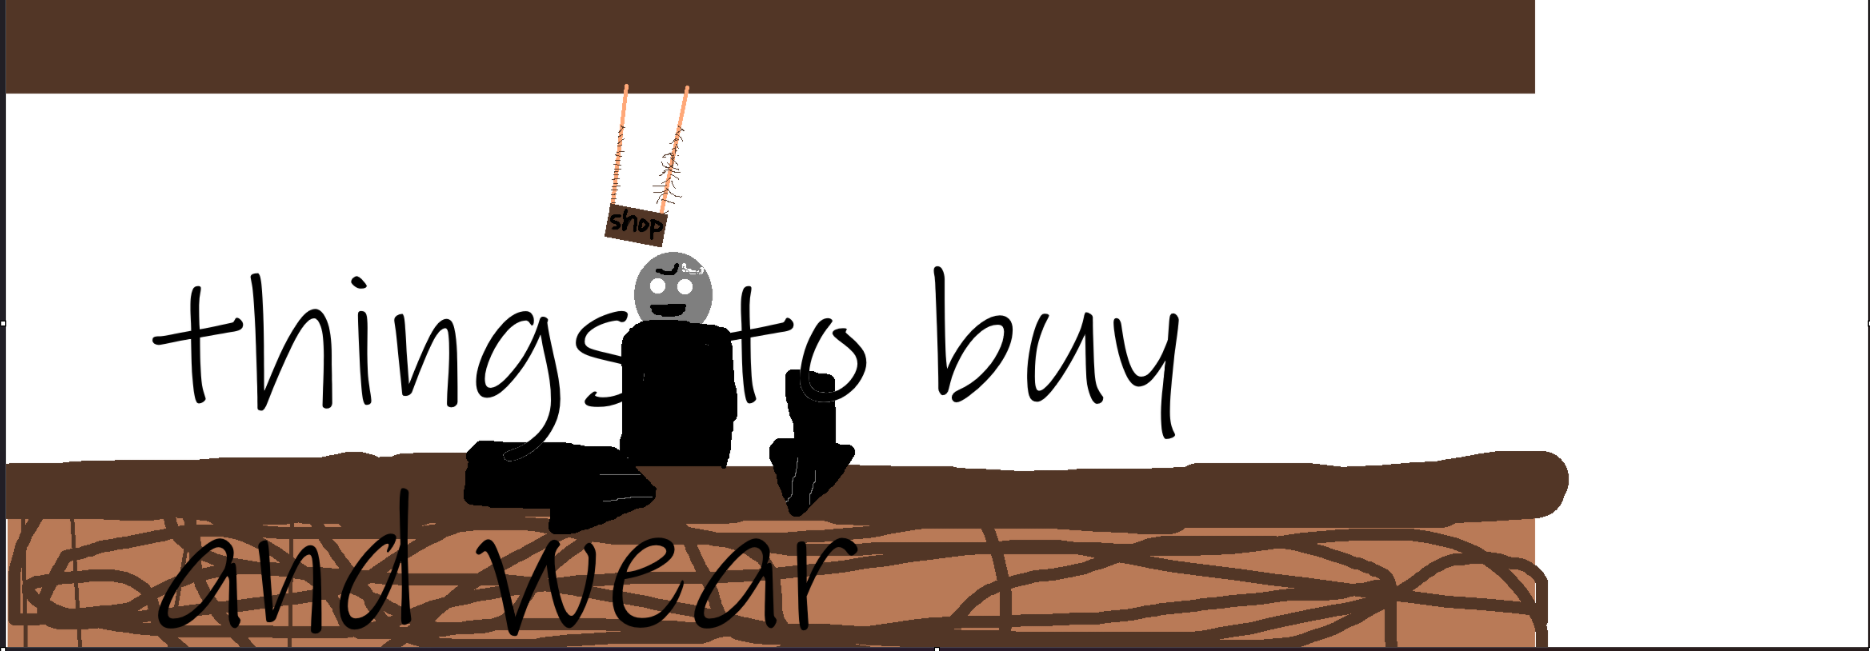
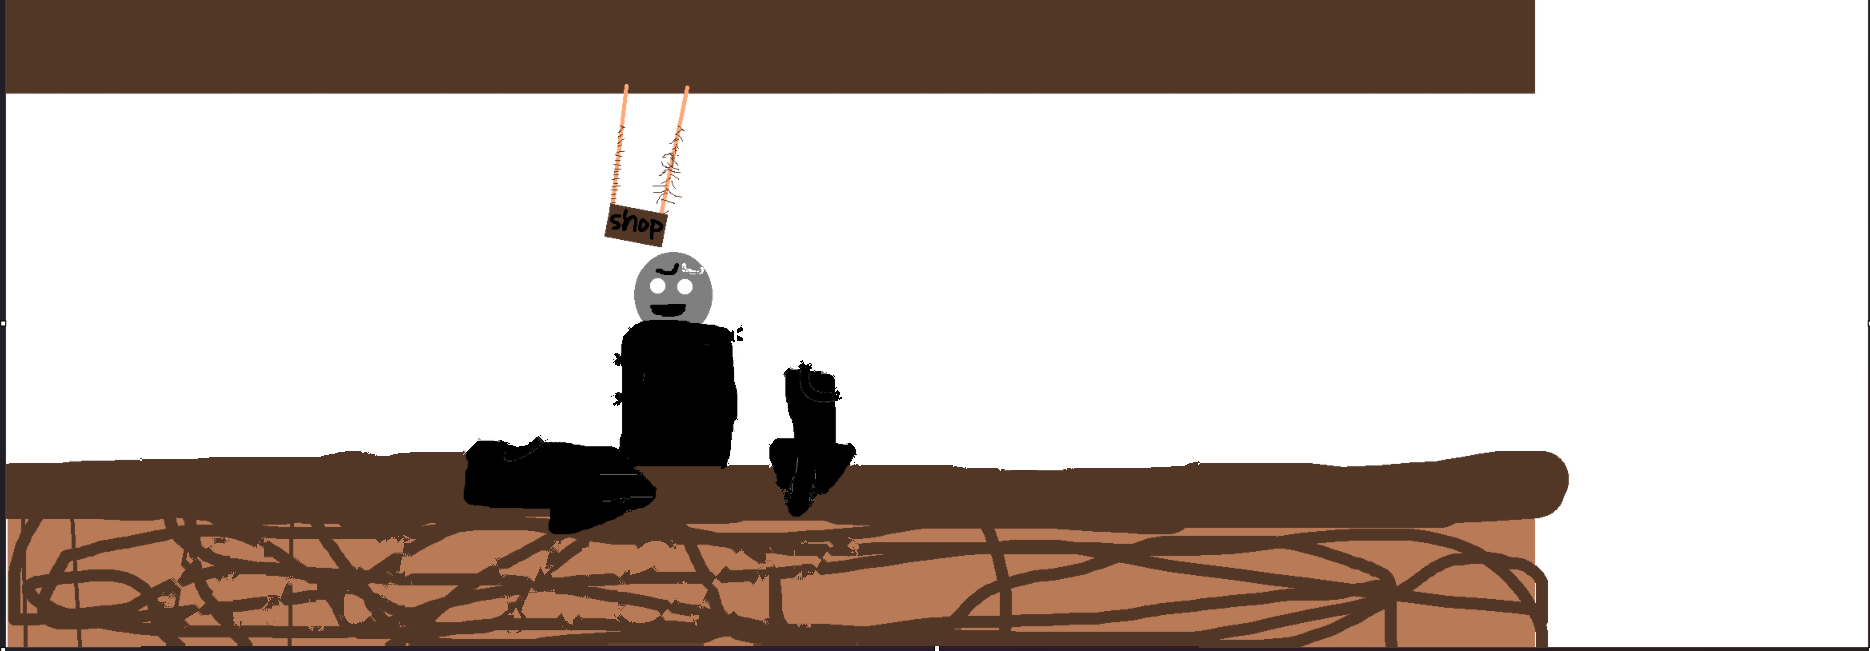
Add coins and a cool hat to the shop
Fights earn coins (10 for finishing, 15 more for a win by a person). The cool hat costs 25 coins; after buying it, pick which fighters wear it. Also erase the words from the shop picture.

diff --git a/index.html b/index.html
@@ -129,6 +129,13 @@ kbd{font-family:var(--body);border:2px solid var(--ink);border-bottom-width:4px;
 .set-grid .setting small{font-size:16px;color:#444}
 .page-foot{display:flex;justify-content:center;gap:14px;flex-wrap:wrap}
 .shop-art{display:block;width:100%;height:auto;border:4px solid var(--ink)}
+.coins b{font-family:var(--display);font-weight:400;font-size:34px;background:var(--yellow);padding:0 8px}
+.shop-items{display:grid;grid-template-columns:repeat(auto-fit,minmax(260px,1fr));gap:18px}
+.shop-item{border:4px solid var(--ink);padding:12px;display:flex;flex-direction:column;align-items:center;gap:8px;text-align:center}
+.shop-item h3{margin:0}
+.wear-grid{display:flex;flex-wrap:wrap;gap:6px;justify-content:center}
+.wear-grid button{display:flex;flex-direction:column;align-items:center;width:84px;padding:4px;border:3px solid var(--ink);background:var(--paper);font-family:var(--body);font-size:15px;line-height:1.1}
+.wear-grid button[aria-pressed="true"]{background:var(--yellow)}
 #gameQuit{position:fixed;left:calc(14px + env(safe-area-inset-left,0px));bottom:calc(14px + env(safe-area-inset-bottom,0px));font-size:24px;padding:4px 20px;border:3px solid var(--paper);z-index:5}
 .quit-btns{display:flex;gap:12px;flex-wrap:wrap;justify-content:center}
 .btn.red{background:var(--maroon);color:var(--paper)}
@@ -295,8 +302,11 @@ input:focus-visible{outline:4px solid var(--yellow);outline-offset:2px}
   <div class="panel page">
     <header class="whois"><h2>shop</h2><button class="btn back" data-back>back</button></header>
     <div class="page-body">
-      <img class="shop-art" src="shop.png" alt="The shop: a grey fighter waves from behind a wooden counter under a hanging shop sign. Things to buy and wear.">
-      <p>Coming soon!</p>
+      <img class="shop-art" src="shop.png" alt="The shop: a grey fighter waves from behind a wooden counter under a hanging shop sign.">
+      <p class="coins">You have <b id="coinCount">0</b> coins. Finish a fight to earn 10 coins. Win it with a person (not the computer) to get 15 more.</p>
+      <div id="shopItems" class="shop-items"></div>
+      <p id="shopMsg" class="msg" role="status"></p>
+      <p>More coming soon!</p>
       <div class="page-foot"><button class="btn grey" data-back>back</button></div>
     </div>
   </div>
@@ -417,6 +427,7 @@ input:focus-visible{outline:4px solid var(--yellow);outline-offset:2px}
   </div>
   <div class="losers"><div id="loserRow"></div><div class="loser-label">losers losers</div></div>
   <div class="res-actions"><button id="rematchBtn" class="btn grey">rematch</button></div>
+  <p id="coinNote" class="res-note"></p>
   <p id="resNote" class="res-note"></p>
 </div>
 
@@ -489,6 +500,13 @@ const setup = { slots:{ star:'cpu', tri:'p1', circle:'cpu', diamond:'off', squar
 try { const s = JSON.parse(localStorage.getItem('fff-setup') || 'null'); if (s && s.slots) Object.assign(setup, s); } catch (e) {}
 for (const c of CHARS) { if (!setup.slots[c.id]) setup.slots[c.id] = 'off'; if (setup.teams[c.id] == null) setup.teams[c.id] = 0; }
 const saveSetup = () => { try { localStorage.setItem('fff-setup', JSON.stringify(setup)); } catch (e) {} };
+
+// ---------- shop: coins from fights buy things to wear ----------
+const ITEMS = [{ id:'coolhat', name:'Cool hat', price:25, desc:'A tilted black top hat. Very cool.' }];
+const shop = { coins:0, owned:{}, wear:{} };
+try { const s = JSON.parse(localStorage.getItem('fff-shop') || 'null'); if (s) Object.assign(shop, s); } catch (e) {}
+const saveShop = () => { try { localStorage.setItem('fff-shop', JSON.stringify(shop)); } catch (e) {} };
+const wearsHat = ch => !!(shop.owned.coolhat && shop.wear[ch.id]);
 
 // ---------- shapes & faces ----------
 function regular(n, R, start = -Math.PI/2) { const v=[]; for (let i=0;i<n;i++){ const a=start+i*TAU/n; v.push({x:Math.cos(a)*R, y:Math.sin(a)*R}); } return v; }
@@ -571,6 +589,16 @@ function drawCharacter(g, ch, r, o = {}) {
   shapePath(g, ch.shape, r); g.fill(); g.stroke();
   if (o.flash > 0) { g.fillStyle = `rgba(255,255,255,${Math.min(0.8, o.flash*6)})`; shapePath(g, ch.shape, r); g.fill(); }
   drawFace(g, ch, r, o);
+  if (o.hat) drawHat(g, r, -TOPS[ch.shape]*r, o.facing || 1);
+}
+function drawHat(g, r, topY, facing) { // the cool hat from the shop
+  const w = r*0.95, h = r*0.95;
+  g.save(); g.translate(0, topY + r*0.1); g.rotate(-0.2*facing);
+  g.lineWidth = Math.max(2, r*0.06); g.strokeStyle = '#555'; g.fillStyle = C.ink;
+  g.beginPath(); g.rect(-w*0.95, -r*0.12, w*1.9, r*0.14); g.rect(-w/2, -h, w, h - r*0.1); g.fill(); g.stroke();
+  g.fillStyle = C.red; g.fillRect(-w/2, -h*0.42, w, h*0.2);
+  g.fillStyle = 'rgba(255,255,255,.35)'; g.fillRect(-w*0.34, -h*0.9, w*0.12, h*0.4);
+  g.restore();
 }
 function drawCrown(g, r, topY) {
   const w = r*0.9, h = r*0.6, y = topY - 4;
@@ -582,9 +610,9 @@ function charCanvas(ch, px, o = {}) {
   const c = document.createElement('canvas'), d = Math.min(2, window.devicePixelRatio || 1);
   c.width = px*d; c.height = px*d; c.style.width = c.style.height = px + 'px';
   const g = c.getContext('2d'); g.scale(d, d);
-  const r = px*(o.crown ? 0.27 : 0.33);
-  g.translate(px/2, px*(o.crown ? 0.62 : 0.53));
-  drawCharacter(g, ch, r, { facing:1, ko:o.ko });
+  const tall = o.crown || o.hat, r = px*(tall ? 0.27 : 0.33);
+  g.translate(px/2, px*(tall ? 0.62 : 0.53));
+  drawCharacter(g, ch, r, { facing:1, ko:o.ko, hat:o.hat && !o.crown });
   if (o.crown) drawCrown(g, r, -TOPS[ch.shape]*r);
   return c;
 }
@@ -1595,7 +1623,7 @@ function drawStar(x, y, r, fill, stroke) {
 function drawFighter(p, t) {
   const b = p.body, x = b.position.x, y = b.position.y;
   g.save(); g.translate(x, y); g.rotate(b.angle); g.scale(1 + p.squash*0.6, 1 - p.squash);
-  drawCharacter(g, p.ch, p.r, { facing:p.facing, ko:p.ko > 0, flash:p.flash });
+  drawCharacter(g, p.ch, p.r, { facing:p.facing, ko:p.ko > 0, flash:p.flash, hat:!G.online && wearsHat(p.ch) });
   g.restore();
   const fistR = p.r*0.3;
   const fist = (fx, fy) => { g.beginPath(); g.arc(fx, fy, fistR, 0, TAU); g.fillStyle = p.ch.color; g.fill(); g.lineWidth = 3.5; g.strokeStyle = C.ink; g.stroke(); };
@@ -1723,7 +1751,7 @@ function renderRoster() {
   for (const ch of CHARS) {
     const ctl = CTRL[setup.slots[ch.id]] || CTRL.off;
     const card = document.createElement('div'); card.className = 'card' + (ctl.kind === 'off' ? ' off' : '');
-    card.appendChild(charCanvas(ch, 92));
+    card.appendChild(charCanvas(ch, 92, { hat:wearsHat(ch) }));
     card.insertAdjacentHTML('beforeend', `<h4>${ch.name}</h4><p>${ch.trait}</p>`);
     const b = document.createElement('button'); b.className = 'ctl'; b.id = 'ctl-' + ch.id; b.dataset.kind = ctl.kind; b.textContent = ctl.label;
     b.title = 'Click to change who plays this character';
@@ -1748,7 +1776,7 @@ function drawMapPreview() {
   try {
     drawSky(0, map); drawArena(0, ledgeObjs(map), false);
     const on = CHARS.filter(ch => setup.slots[ch.id] !== 'off'), xs = ffaXs(on.length);
-    on.forEach((ch, i) => { const gp = groundAt(xs[i]) || map.ground[0]; m.save(); m.translate(xs[i], gp.top - 40); drawCharacter(m, ch, 36, { facing:1 }); m.restore(); });
+    on.forEach((ch, i) => { const gp = groundAt(xs[i]) || map.ground[0]; m.save(); m.translate(xs[i], gp.top - 40); drawCharacter(m, ch, 36, { facing:1, hat:wearsHat(ch) }); m.restore(); });
   } finally { g = oldG; MAP = oldMap; }
   $('mapDesc').textContent = map.name + ': ' + map.desc;
 }
@@ -1775,6 +1803,10 @@ function showResults() {
   const losers = teamWin ? G.fighters.filter(f => f.team !== champ.team) : G.fighters.filter(f => f !== champ).sort((a, b) => (G.wins[b.ch.id] || 0) - (G.wins[a.ch.id] || 0));
   $('loserRow').replaceChildren(...losers.map(f => charCanvas(f.ch, 66, { ko:true })));
   const on = G.online;
+  // coins: 10 for finishing a fight, 15 more when a person on this computer is on the winning side
+  const won = (teamWin ? G.fighters.filter(f => f.team === champ.team) : [champ]).some(f => on ? (f.me || f.control === 'local') : f.tag !== 'CPU');
+  const earned = 10 + (won ? 15 : 0); shop.coins += earned; saveShop();
+  $('coinNote').textContent = `+${earned} coins${won ? ' (10 for the fight, 15 for winning)' : ' for the fight'}. You have ${shop.coins} coins to spend in the shop.`;
   if (on === 'host') netBroadcast({ t:'results', champ: teamWin ? -1 : champ.idx, team: teamWin ? champ.team : null, w:G.wins });
   $('rematchBtn').hidden = on === 'client'; $('disbandBtn').hidden = on === 'client';
   $('resNote').textContent = on === 'client' ? 'Waiting for the host to pick what happens next.' : on === 'host' ? 'Leave takes everyone back to the team screen. Disband team ends it for everyone.' : '';
@@ -1798,11 +1830,40 @@ function renderSettings() {
   renderSeg('tagsSeg', ONOFF, 'tags');
 }
 let backTo = 'title';
-function openPage(id) { backTo = G.state; G.state = id; waitingKey = null; if (id === 'settings') renderSettings(); if (id === 'keys') { renderKeys(); $('keysMsg').textContent = ''; } fillKeyLabels(); showScreen(id); $(id).scrollTop = 0; $(id).querySelector('[data-back]').focus(); }
+function openPage(id) { backTo = G.state; G.state = id; waitingKey = null; if (id === 'settings') renderSettings(); if (id === 'shop') renderShop(); if (id === 'keys') { renderKeys(); $('keysMsg').textContent = ''; } fillKeyLabels(); showScreen(id); $(id).scrollTop = 0; $(id).querySelector('[data-back]').focus(); }
 document.querySelectorAll('[data-back]').forEach(b => b.onclick = () => { if (backTo === 'setup') openSetup(); else { G.state = 'title'; showScreen('title'); $('okBtn').focus(); } });
 $('howBtn').onclick = () => { audioOn(); openPage('howto'); };
 $('setBtn').onclick = () => { audioOn(); openPage('settings'); };
-$('shopBtn').onclick = () => { audioOn(); openPage('shop'); };
+$('shopBtn').onclick = () => { audioOn(); $('shopMsg').textContent = ''; openPage('shop'); };
+function renderShop() {
+  $('coinCount').textContent = shop.coins;
+  const box = $('shopItems'); box.innerHTML = '';
+  for (const it of ITEMS) {
+    const card = document.createElement('div'); card.className = 'shop-item';
+    card.appendChild(charCanvas(CHAR.circle, 120, { hat:true }));
+    card.insertAdjacentHTML('beforeend', `<h3>${it.name}</h3><p>${it.desc}</p>`);
+    if (!shop.owned[it.id]) {
+      const b = document.createElement('button'); b.className = 'btn'; b.id = 'buy-' + it.id; b.textContent = `buy for ${it.price} coins`;
+      b.onclick = () => {
+        if (shop.coins < it.price) { $('shopMsg').textContent = `You need ${it.price - shop.coins} more coins. Play some fights to earn them!`; return; }
+        shop.coins -= it.price; shop.owned[it.id] = true; saveShop(); renderShop();
+        $('shopMsg').textContent = `You got the ${it.name.toLowerCase()}! Now click the fighters who should wear it.`; if (sfx.win) sfx.win();
+      };
+      card.appendChild(b);
+    } else {
+      card.insertAdjacentHTML('beforeend', '<p class="note">You own it! Click a fighter to put it on or take it off. Hats show up in fights on this computer.</p>');
+      const grid = document.createElement('div'); grid.className = 'wear-grid';
+      for (const ch of CHARS) {
+        const b = document.createElement('button'); b.id = 'wear-' + ch.id; b.setAttribute('aria-pressed', String(!!shop.wear[ch.id]));
+        b.appendChild(charCanvas(ch, 64, { hat:!!shop.wear[ch.id] })); b.append(ch.name);
+        b.onclick = () => { shop.wear[ch.id] = !shop.wear[ch.id]; saveShop(); renderShop(); $('wear-' + ch.id).focus(); };
+        grid.appendChild(b);
+      }
+      card.appendChild(grid);
+    }
+    box.appendChild(card);
+  }
+}
 let waitingKey = null;
 function renderKeys() {
   for (const pl of ['p1','p2']) {

diff --git a/README.md b/README.md
@@ -28,6 +28,14 @@ Every fighter has 200 hp. When it runs out, they get dizzy and can be thrown.
 - **Roadside Fights:** three floors. Cars on the road (50), birds on the sidewalk (15) and zapping power lines on top (5), each with its own caution sign and warning sound.
 - **Lava Rocks:** black rocks in a lava sea. Lava burns your hp every second (jump out!), and lava geysers blast up between the rocks on a timer.
 
+## Shop
+
+Every fight you finish earns 10 coins, and 15 more if a person (not the computer) wins it. Spend coins in the **shop** on the main menu.
+
+- **Cool hat (25 coins):** a tilted black top hat. After you buy it, click the fighters who should wear it.
+
+Coins and hats are saved in your browser. Hats show up in fights on your own computer, but not in online fights yet.
+
 ## Play online
 
 1. Click **play online**, type your name and click **host**.
